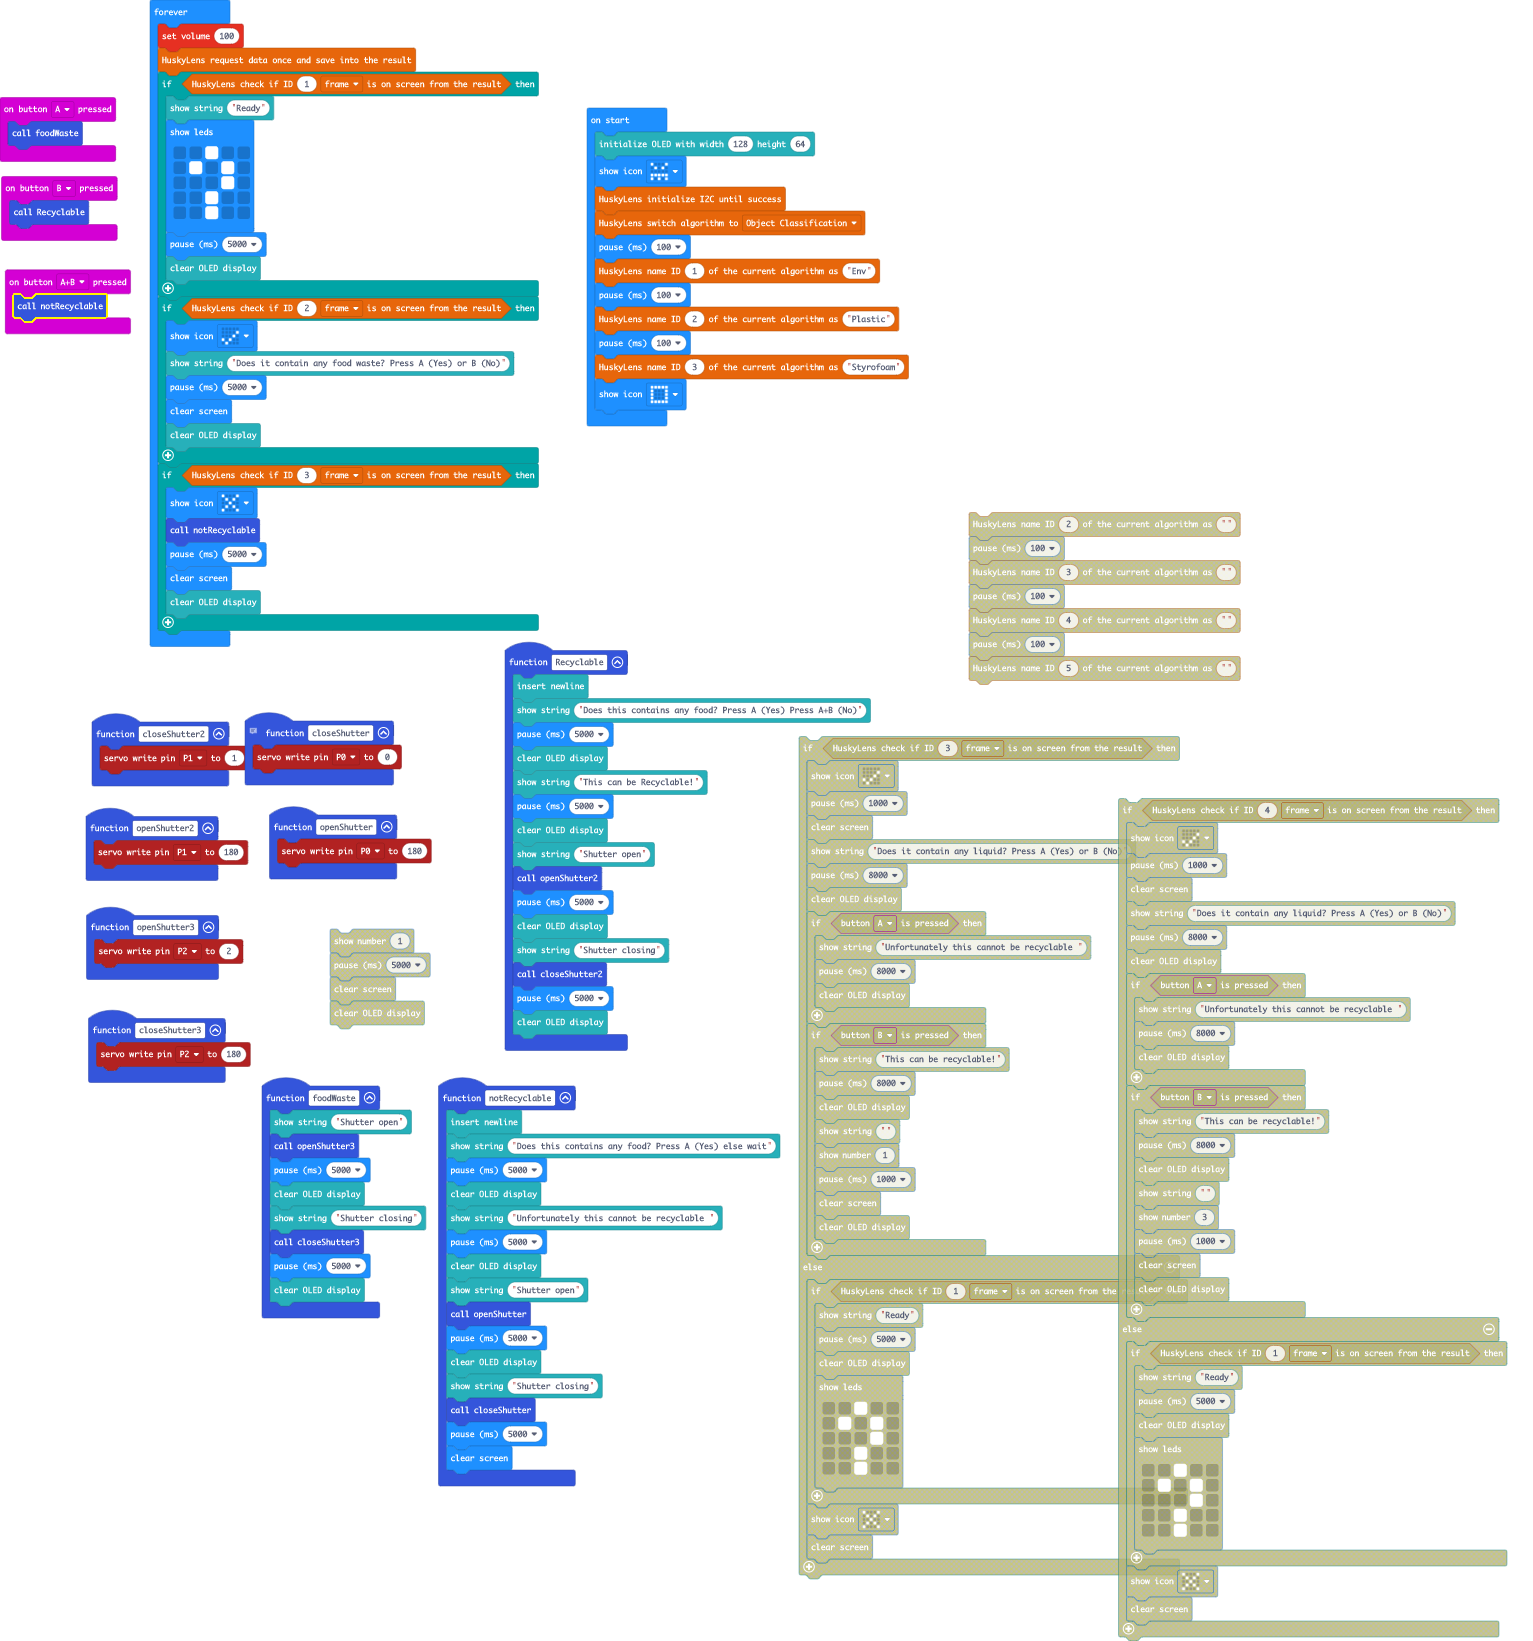
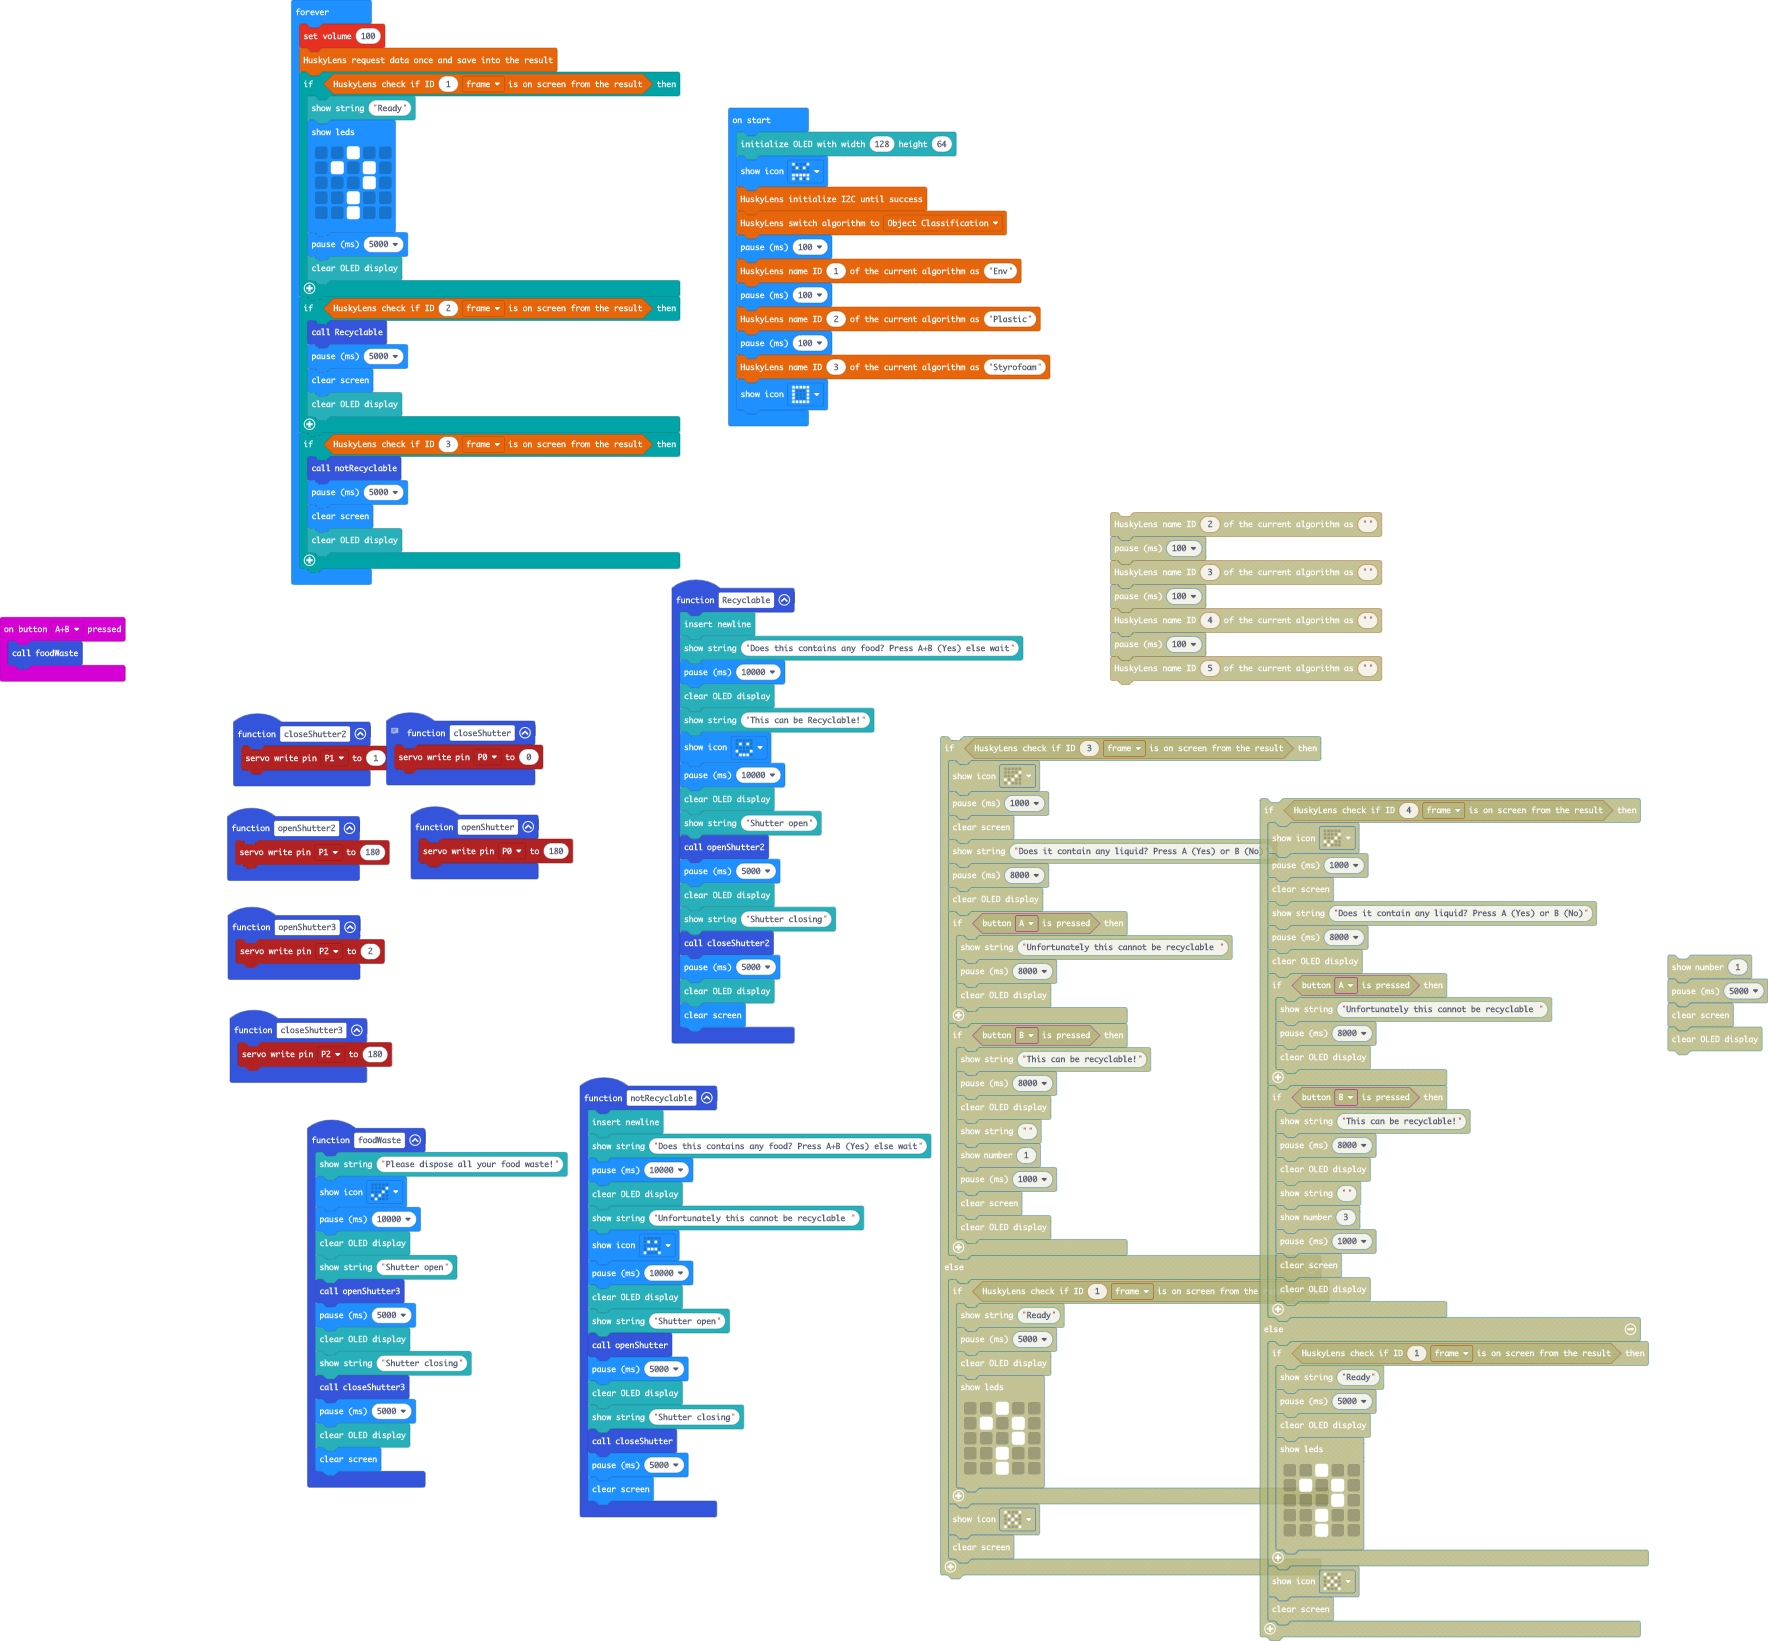
testing for recyclables (plastic) works

Changed region(s): [[0.0, 0.0, 1.0, 1.0], [0.4599, 0.7148, 0.4905, 0.7459]]

diff --git a/main.ts b/main.ts
@@ -18,6 +18,10 @@ function openShutter3 () {
     pins.servoWritePin(AnalogPin.P2, 2)
 }
 function foodWaste () {
+    OLED.writeStringNewLine("Please dispose all your food waste!")
+    basic.showIcon(IconNames.Yes)
+    basic.pause(10000)
+    OLED.clear()
     OLED.writeStringNewLine("Shutter open")
     openShutter3()
     basic.pause(5000)
@@ -26,20 +30,19 @@ function foodWaste () {
     closeShutter3()
     basic.pause(5000)
     OLED.clear()
+    basic.clearScreen()
 }
-input.onButtonPressed(Button.A, function () {
-    foodWaste()
-})
 function openShutter2 () {
     pins.servoWritePin(AnalogPin.P1, 180)
 }
 function notRecyclable () {
     OLED.newLine()
-    OLED.writeStringNewLine("Does this contains any food? Press A (Yes) else wait")
-    basic.pause(5000)
+    OLED.writeStringNewLine("Does this contains any food? Press A+B (Yes) else wait")
+    basic.pause(10000)
     OLED.clear()
     OLED.writeStringNewLine("Unfortunately this cannot be recyclable ")
-    basic.pause(5000)
+    basic.showIcon(IconNames.Sad)
+    basic.pause(10000)
     OLED.clear()
     OLED.writeStringNewLine("Shutter open")
     openShutter()
@@ -51,10 +54,7 @@ function notRecyclable () {
     basic.clearScreen()
 }
 input.onButtonPressed(Button.AB, function () {
-    notRecyclable()
-})
-input.onButtonPressed(Button.B, function () {
-    Recyclable()
+    foodWaste()
 })
 function closeShutter2 () {
     pins.servoWritePin(AnalogPin.P1, 1)
@@ -64,11 +64,12 @@ function openShutter () {
 }
 function Recyclable () {
     OLED.newLine()
-    OLED.writeStringNewLine("Does this contains any food? Press A (Yes) Press A+B (No)")
-    basic.pause(5000)
+    OLED.writeStringNewLine("Does this contains any food? Press A+B (Yes) else wait")
+    basic.pause(10000)
     OLED.clear()
     OLED.writeStringNewLine("This can be Recyclable!")
-    basic.pause(5000)
+    basic.showIcon(IconNames.Happy)
+    basic.pause(10000)
     OLED.clear()
     OLED.writeStringNewLine("Shutter open")
     openShutter2()
@@ -78,6 +79,7 @@ function Recyclable () {
     closeShutter2()
     basic.pause(5000)
     OLED.clear()
+    basic.clearScreen()
 }
 function closeShutter3 () {
     pins.servoWritePin(AnalogPin.P2, 180)
@@ -109,14 +111,12 @@ basic.forever(function () {
         OLED.clear()
     }
     if (huskylens.isAppear(2, HUSKYLENSResultType_t.HUSKYLENSResultBlock)) {
-        basic.showIcon(IconNames.Yes)
-        OLED.writeStringNewLine("Does it contain any food waste? Press A (Yes) or B (No)")
+        Recyclable()
         basic.pause(5000)
         basic.clearScreen()
         OLED.clear()
     }
     if (huskylens.isAppear(3, HUSKYLENSResultType_t.HUSKYLENSResultBlock)) {
-        basic.showIcon(IconNames.No)
         notRecyclable()
         basic.pause(5000)
         basic.clearScreen()
